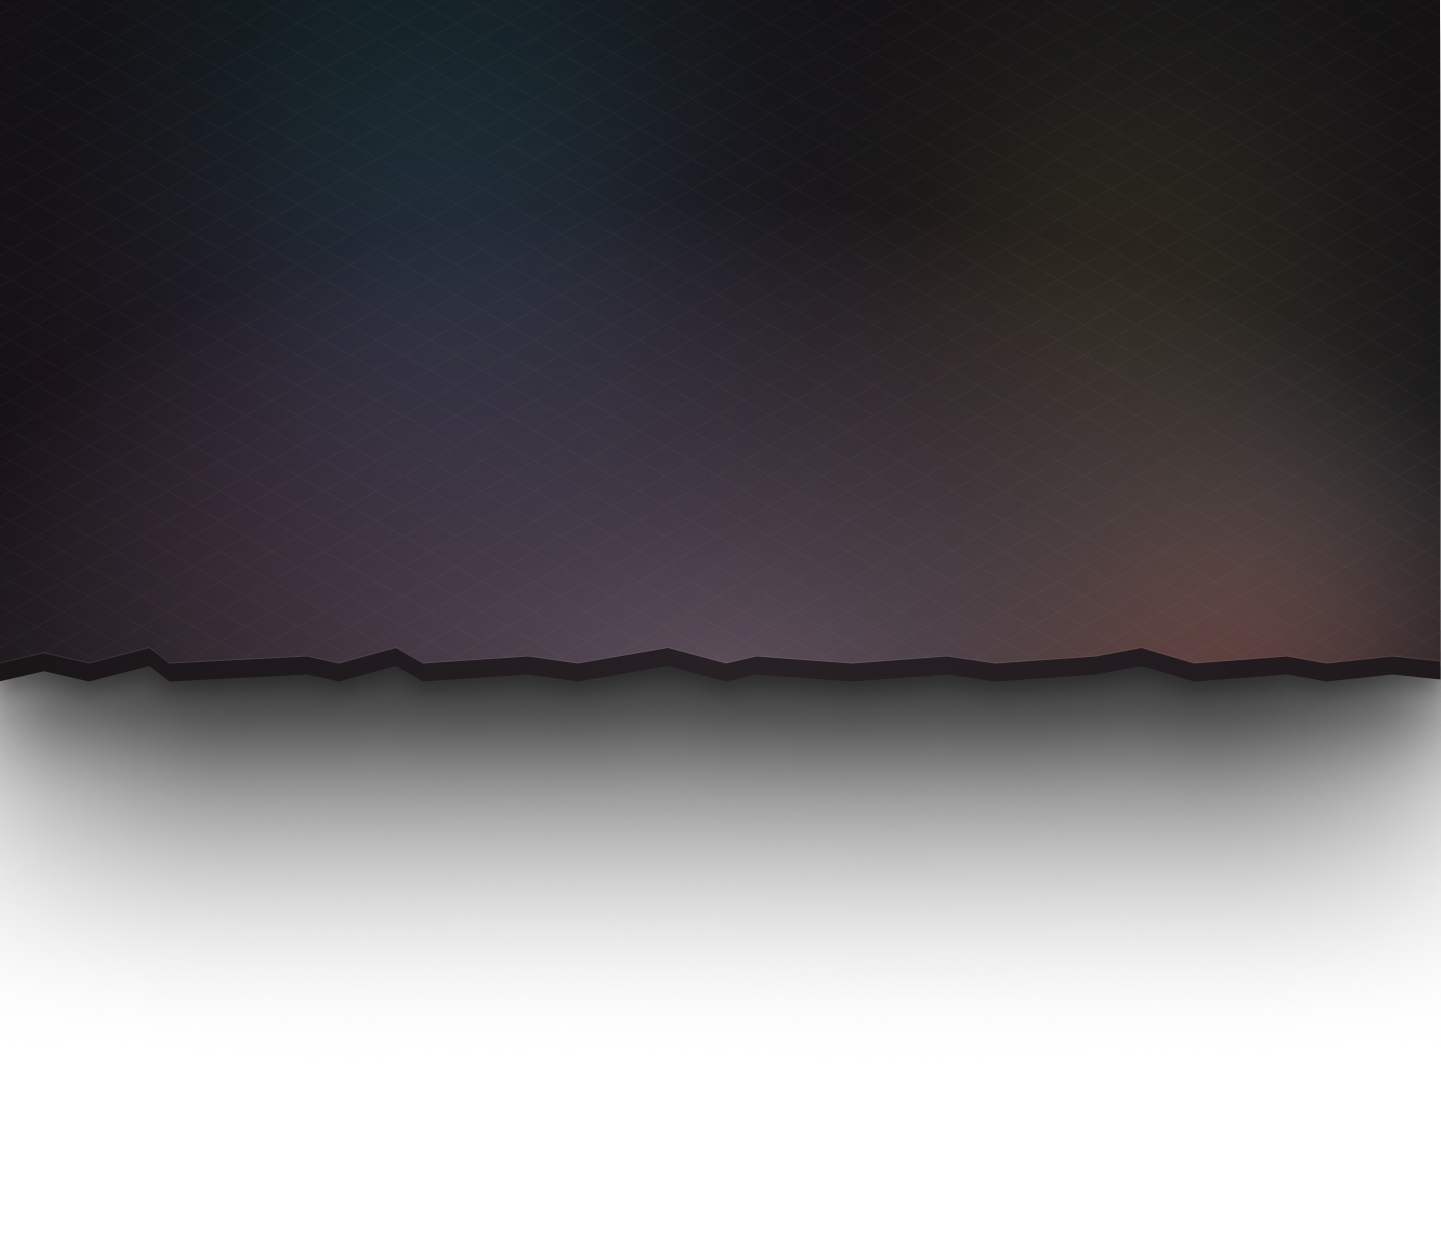
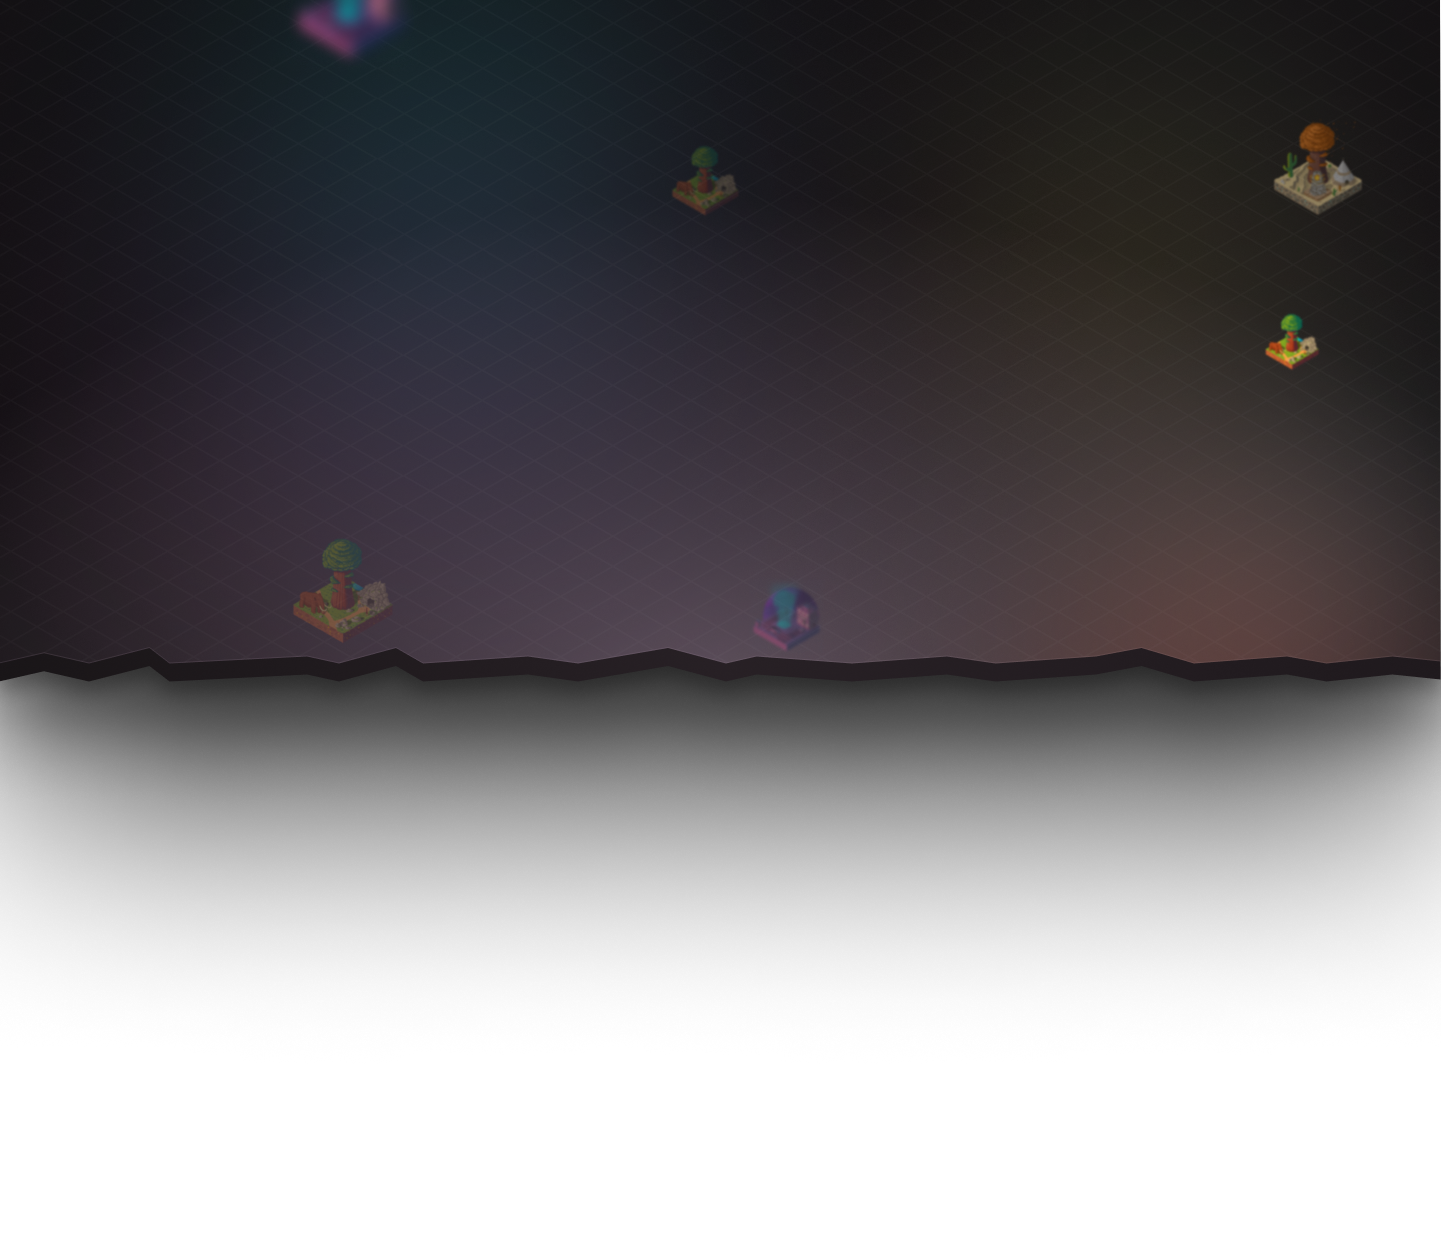
added main screen

diff --git a/sequoia/src/screens/Welcome/Welcome.jsx b/sequoia/src/screens/Welcome/Welcome.jsx
@@ -1,21 +1,94 @@
-import './Welcome.scss'
-import ground from './ground.png'
+import { useRef, useEffect } from 'react'
 
+import './Welcome.scss'
+import groundImage from './ground.png'
+import nftCommonImage from './nft-common.png'
+import nftRareImage from './nft-rare.png'
+import nftLegendaryImage from './nft-legendary.png'
+
+import { ReactComponent as DiscordIcon } from '../../assets/svg/discord.svg'
+
+import { ButtonAccent, ButtonSecondary } from '../../components/UI/Button/Button'
+
+import renderer from '../../utils/renderer'
 
 const Welcome = () => {
+    const ground = useRef()
+    const parallaxElements = new Array(3)
+    parallaxElements[0] = useRef()
+    parallaxElements[1] = useRef()
+    parallaxElements[2] = useRef()
+
+    const canvas = useRef()
+
+    useEffect(() => {
+        renderer.setToRender(groundParallax.bind(undefined, ground.current), 'groundParallax')
+        renderer.setToRender(welcomeMouseParallax.bind(undefined, ground.current, parallaxElements), 'welcomeMouseParallax')
+
+        const context = canvas.current.getContext('2d')
+        renderer.setToRender(canvasAnimation.bind(undefined, canvas.current, context), 'canvasAnimation')
+    }, [])
+
     return (
         <div className="welcome">
             <div className="welcome__canvas">
-                <img className="welcome__canvas-ground" src={ground} alt=""/>
-                <canvas></canvas>
+                <img ref={ground} className="welcome__canvas-ground" src={groundImage} alt=""/>
+                <canvas ref={canvas}></canvas>
+                <div className="welcome__canvas-nfts">
+                    <img src={nftCommonImage} ref={parallaxElements[0]} className="nft-common" alt="" />
+                    <img src={nftRareImage} ref={parallaxElements[1]} className="nft-rare" alt="" />
+                    <img src={nftLegendaryImage} ref={parallaxElements[2]} className="nft-legendary" alt="" />
+                </div>
             </div>
             <div className="welcome__text-content">
-                <h1>
-                    
-                </h1>
+                <h1><span>SEQ</span>CHAIN</h1>
+                <div className="welcome__action-buttons">
+                    <ButtonAccent>read whitepaper</ButtonAccent>
+                    <ButtonSecondary><DiscordIcon/>JOIN DISCORD</ButtonSecondary>
+                </div>
+                <div className="welcome__description">
+                    <div className="welcome__description-card">
+                        <h2>Real tree <br/>owner</h2>
+                        <p>With the purchase of the Seqchain NFT you become the owner of a real Sequoia tree and a 20x20 meter plot of land in Taraclia, Moldova.</p>
+                    </div>
+                    <div className="welcome__description-card">
+                        <h2>Make impact on <br/>ecology</h2>
+                        <p>Sequoia is one of the most ancient and durable trees in the world. It consumes a record amount of CO2 and purifies the air we breathe. </p>
+                    </div>
+                    <div className="welcome__description-card">
+                        <h2>Grow to <br/>Earn</h2>
+                        <p>The tree grows - you earn. Simple as that, right? Every day Seqchain NFT bears fruits in the form of SEQ coins. Don’t hesitate to make a profit from the sale of new trees!</p>
+                    </div>
+                </div>
             </div>
         </div>
     )
+}
+
+function groundParallax(ground) {
+    if (renderer.isElementVisible(ground)) {
+        ground.style.transform = `translate3d(0, ${window.scrollY / 5}px, 0)`
+    }
+}
+
+function welcomeMouseParallax(ground, domElements) {
+    if (renderer.isElementVisible(ground)) {
+        const mouse = renderer.getMouseDocumentCoords()
+        domElements.forEach((element, idx) => {
+            element.current.style.transform = `translate3d(${mouse.x * (idx + 1) / 200}px, ${mouse.y * (idx + 1) / 200}px, 0)`
+        })
+    }
+}
+
+function canvasAnimation(canvas, context) {
+    if (renderer.isElementVisible(canvas)) {
+
+    }
+    canvasAdaptive(canvas)
+}
+
+function canvasAdaptive(canvas) {
+
 }
 
 export default Welcome

diff --git a/sequoia/src/screens/Welcome/Welcome.scss b/sequoia/src/screens/Welcome/Welcome.scss
@@ -3,6 +3,7 @@
 .welcome {
     position: relative;
     z-index: 1;
+    padding: rem(96) rem(190);
 }
 
 .welcome__canvas {
@@ -10,35 +11,113 @@
     top: 0; left: 0;
     width: 100%;
     height: auto;
-    z-index: 0;
-    z-index: 1;
+    z-index: -1;
+    overflow: hidden;
 
     canvas,
-    .welcome__canvas-ground {
+    .welcome__canvas-nfts {
         position: absolute;
         width: 100%;
-        height: auto;
-        min-height: 100%;
+        height: 100%;
         top: 0; left: 0;
     }
 
     .welcome__canvas-ground {
-        @media screen and (min-aspect-ratio: 1440 / 870) {
-            top: -10vh;
+        width: 100%;
+        height: auto;
+    }
+
+    .welcome__canvas-nfts {
+        .nft-common {
+            position: absolute;
+            top: 11%;
+            left: calc(50% + 5%);
+            width: rem(450);
+            height: auto;
         }
-        @media screen and (min-aspect-ratio: 1440 / 800) {
-            top: -20vh;
+        .nft-rare {
+            position: absolute;
+            top: 24%;
+            left: 42%;
+            width: rem(400);
+            height: auto;
         }
-        @media screen and (min-aspect-ratio: 1440 / 700) {
-            top: -30vh;
-        }
-        @media screen and (min-aspect-ratio: 1440 / 630) {
-            top: -40vh;
+        .nft-legendary {
+            position: absolute;
+            top: 30%;
+            left: 68%;
+            width: rem(350);
+            height: auto;
         }
     }
+    
 }
 
 .welcome__text-content {
-    z-index: 2;
+    display: flex;
+    flex-direction: column;
+    justify-content: center;
+    align-items: center;
+    margin-top: rem(144);
+
+    h1 {
+        position: relative;
+        @include font-fors-regular;
+        color: color(primary);
+        margin-right: auto;
+        text-align: left;
+        font-size: font(70);
+        span { @include font-fors-demibold; }
+    }
+    h1::before {
+        content: 'welcome to';
+        position: absolute;
+        @include font-fors-demibold;
+        font-size: font(18);
+        left: 0; top: - rem(8);
+        text-transform: uppercase;
+    }
+
+    .welcome__action-buttons {
+        display: flex;
+        justify-content: flex-start;
+        margin-right: auto;
+        margin-top: rem(24);
+        > :last-child { margin-left: rem(24); }
+    }
+
+    .welcome__description {
+        display: flex;
+        justify-content: center;
+        align-items: stretch;
+        width: 100%;
+        margin-top: rem(77);
+    }
+    .welcome__description-card {
+        --card-color: rgba(43, 39, 41, 90%);
+        width: rem(331);
+        border-radius: rem(20);
+        background-color: var(--card-color);
+        box-shadow: 0px rem(24) rem(56) rgba(0, 0, 0, 0.32);
+        padding: rem(32) rem(40);
+        color: color(primary);
+        &:nth-child(2) { margin: 0 rem(32); }
+    }
+    .welcome__description-card {
+        h2 {
+            @include font-fors-medium;
+            font-size: font(24);
+            text-transform: uppercase;
+            line-height: rem(26);
+            letter-spacing: -0.01em;
+        }
+        p {
+            @include font-fors-regular;
+            font-size: font(15);
+            line-height: rem(24);
+            letter-spacing: -0.01em;
+            margin-top: rem(12);
+        }
+    }
 }
 

diff --git a/sequoia/src/styles/_fonts.scss b/sequoia/src/styles/_fonts.scss
@@ -2,7 +2,7 @@
 @use 'sass:list';
 @use 'mixins' as *;
 
-$fonts: (12, 14, 15, 16, 24, 32);
+$fonts: (12, 14, 15, 18, 24, 70);
 
 @mixin generateFonts() {
     @each $name in $fonts {
@@ -30,6 +30,18 @@ $fonts: (12, 14, 15, 16, 24, 32);
         font-style: normal;
         font-weight: 400;
     }
+    @font-face {
+        font-family: "TT Fors";
+        src: url("~assets/fonts/fors/TT Fors.ttf") format("truetype");
+        font-style: normal;
+        font-weight: 300;
+    }
+    @font-face {
+        font-family: "TT Fors";
+        src: url("~assets/fonts/fors/TT Fors DemiBold.ttf") format("truetype");
+        font-style: normal;
+        font-weight: 600;
+    }
 }
 
 @mixin font-lufga-semibold {
@@ -38,7 +50,15 @@ $fonts: (12, 14, 15, 16, 24, 32);
 }
 
 @mixin font-fors-medium {
-    font-family: "Lufga", sans-serif;
+    font-family: "TT Fors", sans-serif;
     font-weight: 400;
+}
+@mixin font-fors-regular {
+    font-family: "TT Fors", sans-serif;
+    font-weight: 300;
+}
+@mixin font-fors-demibold {
+    font-family: "TT Fors", sans-serif;
+    font-weight: 600;
 }
 

diff --git a/sequoia/src/utils/renderer.js b/sequoia/src/utils/renderer.js
@@ -1,5 +1,6 @@
 export default {
     mouse: null,
+    startTime: performance.now(),
     handlers: [],
 
     getElementCoords(domElement) {
@@ -102,7 +103,10 @@ export default {
     },
     render() {
         requestAnimationFrame(function render(time) {
-            this.handlers.forEach(item => item.hd(time))
+            if (time - this.startTime > 20) {
+                this.startTime = performance.now()
+                this.handlers.forEach(item => item.hd(time))
+            }
             requestAnimationFrame(render.bind(this))
         }.bind(this))
     },

diff --git a/sequoia/src/styles/_grid.scss b/sequoia/src/styles/_grid.scss
@@ -12,9 +12,12 @@ $breakpoints: (
 }
 
 @mixin documentScale() {
-  font-size: 0.8333333333333333vw;
+  // font-size: 0.8333333333333333vw;
+  font-size: 1.11111111111vw;
+
   @media screen and (max-width: point(xlg)) {
-    font-size: 0.9333333333333333vw;
+    // font-size: 0.9333333333333333vw;
+    font-size: 1.11111111111vw;
   }
   @media screen and (max-width: point(lg)) {
     font-size: 1.11111111111vw;

diff --git a/sequoia/src/App.js b/sequoia/src/App.js
@@ -1,8 +1,17 @@
+import { useEffect } from "react";
 import Header from "./components/Header/Header";
 import Welcome from "./screens/Welcome/Welcome";
 
+import renderer from './utils/renderer'
+
 
 const App = () => {
+
+  useEffect(() => {
+    renderer.render()
+    renderer.useMouseEvent()
+  }, [])
+
   return (
     <div className="App">
       <Header/>

diff --git a/sequoia/src/components/UI/Button/button.scss b/sequoia/src/components/UI/Button/button.scss
@@ -46,7 +46,7 @@
         padding: rem(16) rem(22);
         letter-spacing: 0.065em;
 
-        &:hover { background-color: rgba($color, 80%); transform: matrix(1.1, 0, 0, 1, 0, 0);}
+        &:hover { background-color: rgba($color, 80%); }
         &:active { background-color: rgba($color, 50%); }
     }
 }

diff --git a/sequoia/src/index.scss b/sequoia/src/index.scss
@@ -36,3 +36,8 @@ a {
     text-transform: none;
 }
 
+h1, h2, h3, h4, p {
+    margin: 0;
+    padding: 0;
+}
+
